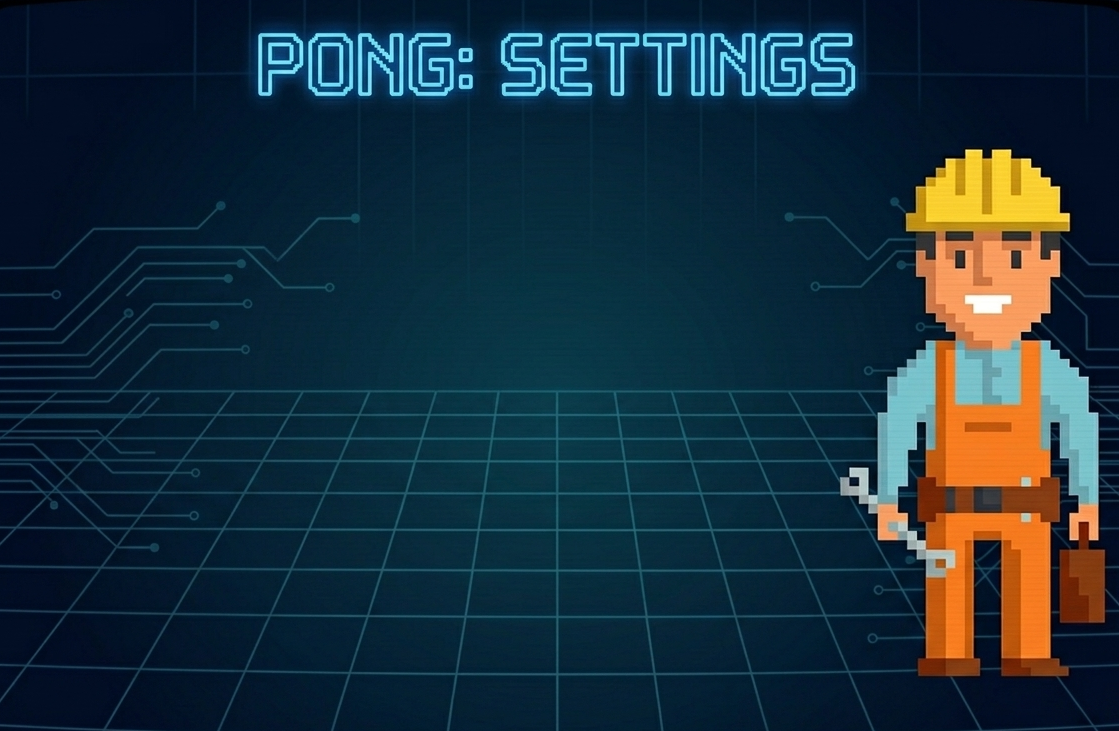
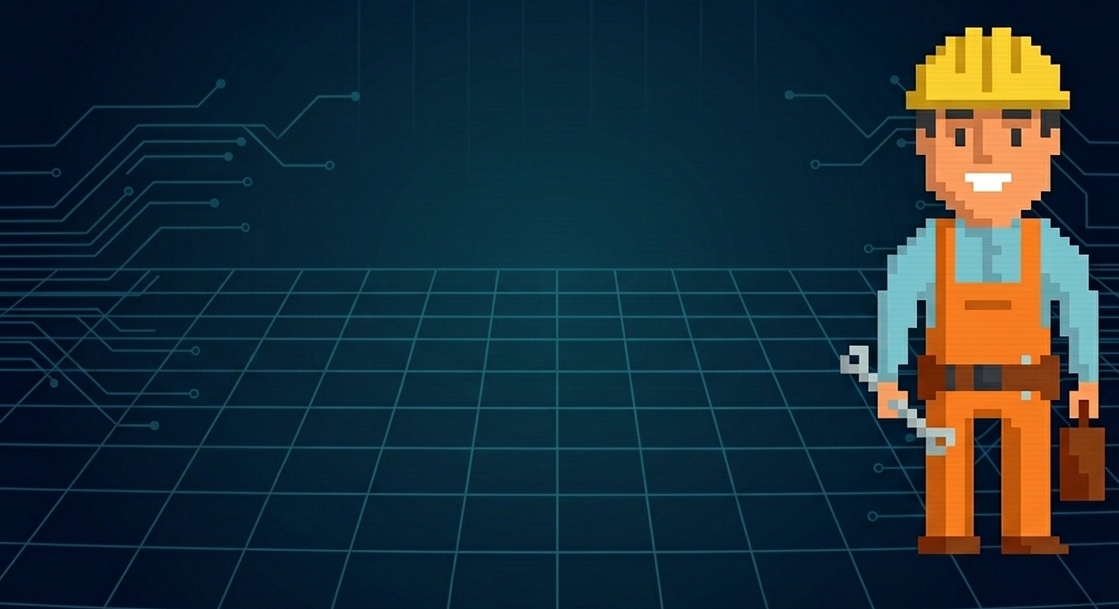
cambios en las imagenes

diff --git a/src/main/java/pong/Cancha.java b/src/main/java/pong/Cancha.java
@@ -22,10 +22,10 @@ public class Cancha extends ObjetoGrafico {
 
         switch (estilo) {
             case "cancha 1":
-                imagenCancha = new ImageIcon(getClass().getResource(ruta + "cancha1.jpg")).getImage();
+                imagenCancha = new ImageIcon(getClass().getResource(ruta + "cancha1.png")).getImage();
                 break;
             case "Cancha 2":
-                imagenCancha = new ImageIcon(getClass().getResource(ruta + "cancha2.jpg")).getImage();
+                imagenCancha = new ImageIcon(getClass().getResource(ruta + "cancha2.png")).getImage();
                 break;
             case "Original":
             default:

diff --git a/src/main/java/clasesCompartidas/LanzadorJuego.java b/src/main/java/clasesCompartidas/LanzadorJuego.java
@@ -62,7 +62,7 @@ public class LanzadorJuego extends JFrame implements ActionListener {
                         // Cambiado de src\\main\\... a la ruta relativa del recurso empaquetado
                         panelImg.add(new JPanelImage("/AssetsSpace/Galaxia.png"));
                     } else if ("Pong".equals(selected)) {
-                        panelImg.add(new JPanelImage("/pong/fondoP.jpg"));
+                        panelImg.add(new JPanelImage("/pong/fondoP.png"));
                     } else if ("Lode Runner".equals(selected)) { // CORREGIDO: Ahora coincide con la lista
                         panelImg.add(new JPanelImage("/pong/portada_pong.png")); 
                     } 